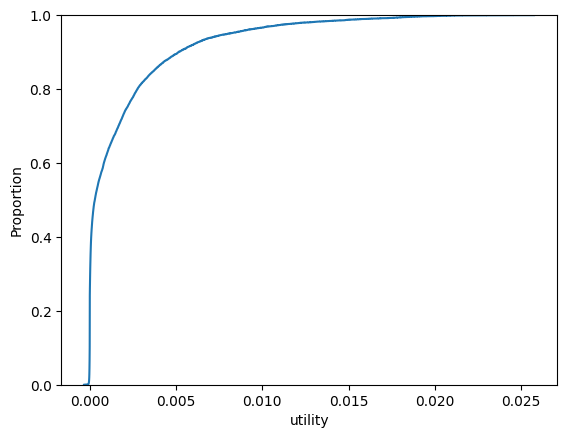
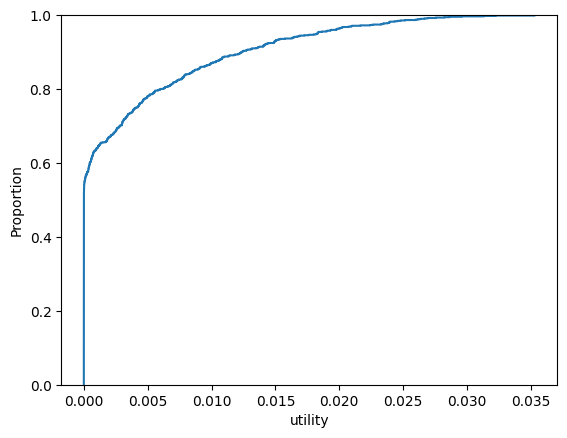
Adding script for normalizing utils for composite models; Updaitng server to accept composite models

diff --git a/src/color_analysis/sv_matrix/composite/compose_single_color_models.py b/src/color_analysis/sv_matrix/composite/compose_single_color_models.py
@@ -1,0 +1,83 @@
+import argparse
+from os.path import join, isfile, isdir
+from os import listdir
+import os, sys
+import math
+import pandas as pd
+script_dir = os.path.dirname(os.path.realpath(__file__))
+sys.path.insert(0, os.path.join(script_dir, "../"))
+import extract_sv_matrix
+
+def read_util_mat_file(mat_file, norm_factor):
+    mat = []
+    with open(mat_file) as f:
+        for line in f.readlines():
+            mat.append([])
+            s = line.split()
+            for x in s:
+                mat[-1].append(float(x)/norm_factor)
+    return mat
+
+def main(training_confs, video_dirs, composite_or, outdir, training_split):
+    if len(training_confs) != len(video_dirs):
+        print ("Length of util_mats does not equal length of video_dirs")
+        exit(0)
+
+    util_mats_files = []
+    norm_factors = []
+    for training_conf_dir in training_confs:
+        util_mats_files.append([join(training_conf_dir, x) for x in listdir(training_conf_dir) if isfile(join(training_conf_dir, x)) and "utils_" in x and ".txt" in x][0])
+
+        with open(join(training_conf_dir, "normalization_factor")) as f:
+            norm_factors.append(float(f.readline()))
+
+    util_mats = []
+    for color_idx in range(len(util_mats_files)):
+        util_mats.append(read_util_mat_file(util_mats_files[color_idx], norm_factors[color_idx]))
+
+    # Now read the utility values of all frames
+    aggr_utils = []
+    color_idx = 0
+    for video_dir in video_dirs:
+        df = pd.read_csv(join(video_dir, "frame_utils.csv"))
+        norm = norm_factors[color_idx]
+
+        for idx, row in df.iterrows():
+            u = row["utility"]/norm
+            if len(aggr_utils) <= idx:
+                aggr_utils.append(u)
+            else:
+                if composite_or:
+                    aggr_utils[idx] = max(aggr_utils[idx], u)
+                else: # AND
+                    aggr_utils[idx] = min(aggr_utils[idx], u)
+
+        color_idx += 1
+
+    num_training_frames = int(len(aggr_utils)*training_split)
+
+    util_vals = sorted(aggr_utils[:num_training_frames])
+    cdf_points = 100
+    idx_steps = math.ceil(len(util_vals)/cdf_points)
+
+    curr_idx = 0
+    with open(join(outdir, "util_cdf.txt"), "w") as f:
+        while curr_idx < len(util_vals):
+            f.write("%f\t%f\n"%(curr_idx/len(util_vals), util_vals[curr_idx]))
+            curr_idx += idx_steps
+        f.write("%f\t%f\n"%(1.0, util_vals[-1]))
+
+    for color_idx in range(len(util_mats)):
+        extract_sv_matrix.dump_sv_mat(util_mats[color_idx], join(outdir, "util_mat_color_%d.txt"%color_idx))
+
+if __name__ == "__main__":
+    parser = argparse.ArgumentParser()
+    parser.add_argument("-C", help="Directories of training configurations", nargs="+", dest="training_confs", required=True)
+    parser.add_argument("-V", help="Video dirs", nargs="+", dest="video_dirs", required=True)
+    parser.add_argument("-O", help="Output directory to store the model", dest="outdir", required=True)
+    parser.add_argument("-T", help="Training split fraction", dest="training_split", required=True, type=float)
+    parser.add_argument("--composite-or", help="Boolean flag of whether the composition is OR. Otherwise its assumed as AND.", dest="composite_or", action="store_true")
+    args = parser.parse_args()
+    
+
+    main(args.training_confs, args.video_dirs, args.composite_or, args.outdir, args.training_split)

diff --git a/src/model/sv_matrix_model.py b/src/model/sv_matrix_model.py
@@ -16,8 +16,17 @@ class SVMatrixModel(UtilityModel):
         with open(join(model_path, "model_config.yaml")) as f:
             self.config_data = yaml.safe_load(f)
 
-        self.colors = []
+        self.colors = [] # one entry for every color
         self.num_bins = self.config_data["num_bins"]
+        self.util_cdf = []
+
+        self.is_composite = False
+        self.composite_or = False
+        if "composition" in self.config_data:
+            self.is_composite = True
+            if self.config_data["composition"] == "OR":
+                self.composite_or = True
+                # The only other possibility is AND
 
         for color in self.config_data["colors"]:
             mat_file = color["matrix_file"]
@@ -31,14 +40,13 @@ class SVMatrixModel(UtilityModel):
 
             self.colors.append((range_limits, self.read_mat_file(join(model_path, mat_file))))
 
-        self.util_cdf = []
         with open(join(model_path, "util_cdf.txt")) as f:
             for line in f.readlines():
                 s = line.split()
                 drop_rate = float(s[0])
                 util = float(s[1])
                 self.util_cdf.append((drop_rate, util))
-    
+
     def read_mat_file(self, mat_file):
         mat = []
         with open(mat_file) as f:
@@ -102,16 +110,29 @@ class SVMatrixModel(UtilityModel):
 
         return util
 
+    # This is called from the Python server
     def get_utility(self, features):
         hist = features.feats[0].feat.hsvHisto
         color_ranges = hist.colorRanges
         color_range_idx = 0
+
+        color_utils = [0 for c in self.colors] # utility value per color    
+
         for color_range in color_ranges:
             model_hue_idx = self.match_hue_in_model(color_range)
             if model_hue_idx != None:
-                return self.compute_utility_for_color(self.colors[model_hue_idx], hist.colorHistograms[color_range_idx])
-
+                util_value = self.compute_utility_for_color(self.colors[model_hue_idx], hist.colorHistograms[color_range_idx])
+                if self.is_composite:
+                    color_utils[model_hue_idx] = util_value
+                else:
+                    return util_value
             color_range_idx += 1
+
+        if self.is_composite:
+            if self.composite_or:
+                return max(color_utils)
+            else:
+                return min(color_utils)
 
     def get_utility_threshold(self, drop_rate):
         for idx in range(len(self.util_cdf)):

diff --git a/src/color_analysis/sv_matrix/composite/compute_single_video_multi_color_thresholds.py b/src/color_analysis/sv_matrix/composite/compute_single_video_multi_color_thresholds.py
@@ -4,52 +4,6 @@ import matplotlib
 matplotlib.use("Agg")
 import matplotlib.pyplot as plt
 
-def compute_global_util_threshold(global_cdf, drop_rate):
-    for idx in range(len(global_cdf)):
-        (ratio, util) = global_cdf[idx]
-        if ratio > drop_rate:
-            prev = global_cdf[idx-1]
-            slope = (util - prev[1])/(ratio - prev[0])
-
-            util_threshold = prev[1] + slope*(drop_rate - prev[0])
-            return util_threshold
-        elif drop_rate == ratio:
-            return util
-
-def main_backup(frame_utils, training_fraction, global_cdf_file):
-    df = pd.read_csv(frame_utils)
-    num_training_frames = int(training_fraction*len(df))
-    util_vals = []
-    test_util_vals = []
-    for index, row in df.iterrows():
-        if row["frame_id"] < num_training_frames:
-            util_vals.append(row["utility"])
-        else:
-            test_util_vals.append(row["utility"])
-                
-    # Now compute the CDF
-    util_vals = sorted(util_vals)
-
-    # Read the global CDF
-    global_cdf = []
-    with open(global_cdf_file) as f:
-        for line in f.readlines():
-            s = line.split()
-            global_cdf.append((float(s[0]), float(s[1])))
-
-    # Theese are the testing drop rates
-    drop_rates = [0.25, 0.5, 0.75]
-    
-    print ("target_drop_rate\tpervid_drop_rate\tglobal_drop_rate")
-    for drop_rate in drop_rates:
-        util_threshold = util_vals[int(drop_rate*len(util_vals))]
-
-        global_util_threshold = compute_global_util_threshold(global_cdf, drop_rate)
-
-        actual_drop_rate = len([x for x in test_util_vals if x < util_threshold])/len(test_util_vals)
-        global_drop_rate = len([x for x in test_util_vals if x < global_util_threshold])/len(test_util_vals)
-        print (drop_rate, "\t", actual_drop_rate, "\t", global_drop_rate)
-
 def normalize_utils(df, training_fraction):
     utils = []
     for idx, row in df.iterrows():

diff --git a/src/color_analysis/sv_matrix/compute_utils_cdf.py b/src/color_analysis/sv_matrix/compute_utils_cdf.py
@@ -26,6 +26,7 @@ def aggr_and_write_utils(aggr_df, outdir):
 
     max_utils_df = pd.DataFrame(max_utils, columns=["frame_id", "vid_name", "utility", "label"])
 
+    plt.close()
     sns.ecdfplot(data=max_utils_df, x="utility")
     plt.savefig(join(outdir, "utils_cdf.png"), bbox_inches="tight")
 
